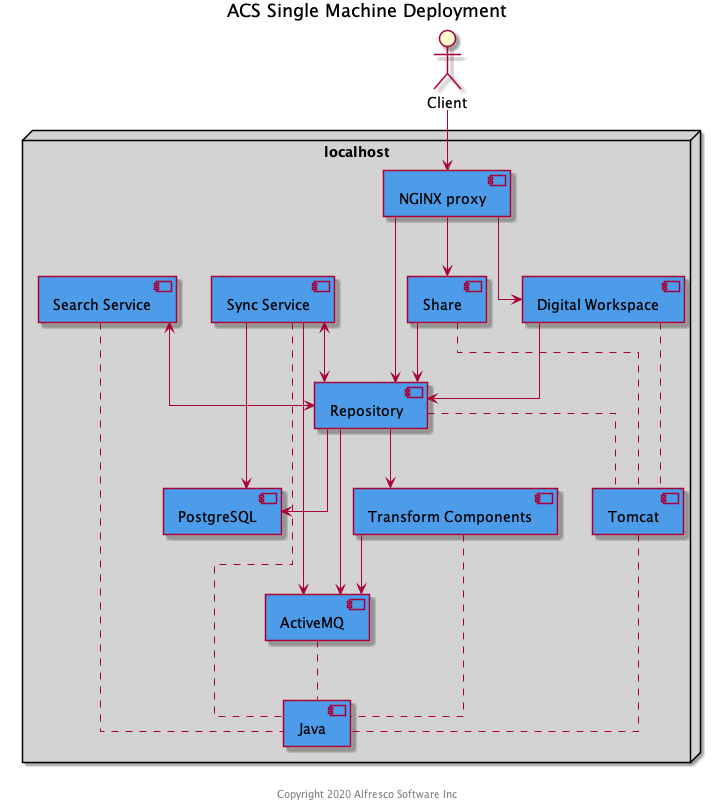
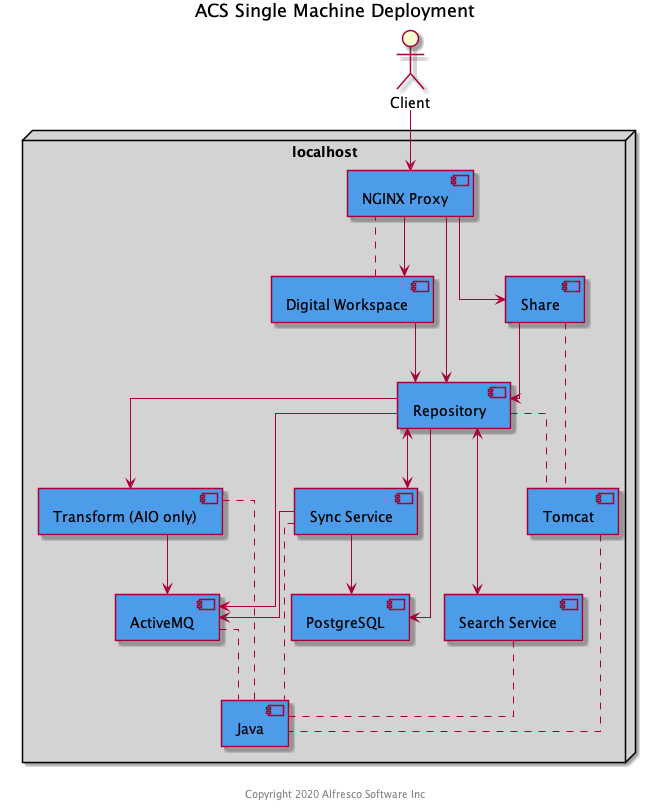
Updated single/multi machine diagrams and added HA diagram.

diff --git a/docs/README.md b/docs/README.md
@@ -1,14 +1,14 @@
 # Documentation
 
-The diagram below shows the roles used by the ACS playbook when they are deployed onto a single machine.
+The diagram below shows how the ACS playbook uses the roles when deploying onto a single machine.
 
-![Single Machine](./resources/acs-single-machine.png)
+![Single Machine Deployment](./resources/acs-single-machine.png)
 
-The diagram below shows the roles used by the ACS playbook when they are deployed across multiple machines.
+The diagram below shows how the ACS playbook uses the roles when the deployment is spread across multiple machines.
 
-![Multi Machine](./resources/acs-multi-machine.png)
+![Multi Machine Deployment](./resources/acs-multi-machine.png)
 
 
-<!-- If you're an operator looking to deploy the playbooks please refer to the [Deployment Guide](/docs/deployment-guide.md).
+The diagram below shows how the high availabilty ACS playbook uses the roles to provide an HA deployment across multiple machines.
 
-If you're a developer looking to maintain or develop new playbook features please refer the the [Developer Guide](/docs/developer-guide.md). -->
+![High Availability Deployment](./resources/acs-ha.png)
